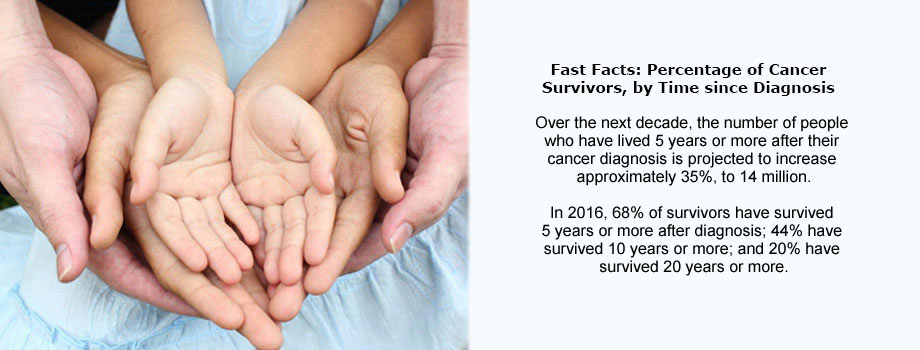
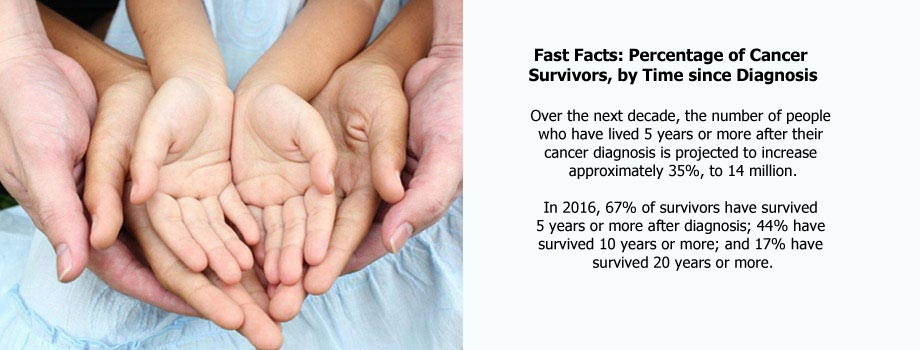
CD: OCS graphs and statistics updates Former-commit-id: cb2cf32f1c4fe3f7e2e1e0c310c98e7bfff11864

diff --git a/ocs/statistics/graphs.html b/ocs/statistics/graphs.html
@@ -29,7 +29,7 @@
 
     <!-- Fav and touch icons -->
   <style type="text/css" id="holderjs-style">.holderjs-fluid {font-size:16px;font-weight:bold;text-align:center;font-family:sans-serif;margin:0}</style>
-  <!-- InstanceBeginEditable name="head" -->
+  <!-- InstanceBeginEditable name="head" -->  <link href="/css/bootstrap-lightbox.min.css" rel="stylesheet">
   <!-- InstanceEndEditable -->
   </head>
 
@@ -164,6 +164,7 @@ Opportunities at NCI</a></li>
                   <h1>Survivorship-Related Graphs</h1>
                   <p>This page provides several cancer survivorship-related graphs.  For additional statistics, including customized graphs or tables, please go to <a href="http://seer.cancer.gov/">NCI’s Surveillance, Epidemiology, and End Results (SEER) Program</a>.
 </p>
+
 				<div class="row-fluid">
                 <div class="span12 listimage">
                  	<div class="row-fluid">
@@ -173,53 +174,58 @@ Opportunities at NCI</a></li>
                       <div class="span12">
                         <ul>
                         	<li>
-                         		<a href="#modal" data-toggle="modal">Estimated and Projected Number of Cancer Survivors in the United States From 1973 to 2024</a> (<a href="../Images/graphs/graphic-2014-prevalence.png" target="_blank" download>Download Graph</a>)
-                     			<div id="modal" class="modal hide fade" tabindex="-1" role="dialog" aria-hidden="true">
-                      				<div class="modal-body">
-                      					<img src="../Images/graphs/graphic-2014-prevalence.png" alt="Estimated Number of Cancer Survivors in US" />
-                       				</div>
+                         		<a href="#lightbox" data-toggle="lightbox">Estimated and Projected Number of Cancer Survivors in the U.S. From 1975 to 2040</a> (<a href="../images/graphs/projected-number.jpg" target="_blank" download>Download Graph</a>)
+                     			<div id="lightbox" class="lightbox hide fade" tabindex="-1" role="dialog" aria-hidden="true">
+                      				<div class='lightbox-content'>
+                      					<img src="../images/graphs/projected-number.jpg" alt="Estimated Number of Cancer Survivors in US" />
+     <div class="lightbox-caption"><p>Bluethmann SM, Mariotto AB, Rowland, JH. Anticipating the ''Silver Tsunami'': Prevalence Trajectories and Comorbidity Burden among Older Cancer Survivors in the United States. Cancer Epidemiol Biomarkers Prev. 2016;25:1029-1036. </p></div>                  				</div>
                         		</div>
                          	</li>
-                         <li><a href="#modal2" data-toggle="modal">Estimated Number of Cancer Survivors in the United States by Years Since Diagnosis</a> (<a href="../Images/graphs/graph-2014-years-since.png" target="_blank" download>Download Graph</a>)
-                     			<div id="modal2" class="modal hide fade" tabindex="-1" role="dialog" aria-hidden="true">
-                      				<div class="modal-body">
-                      					<img src="../Images/graphs/graph-2014-years-since.png" alt="Estimated Number of US Cancer Survivors by Sex and Years Since Diagnosis, as of January 1, 2014" />
-                       				</div>
+                         <li><a href="#lightbox2" data-toggle="lightbox">Estimated Number of Cancer Survivors in the U.S., by Years Since Diagnosis</a> (<a href="../images/graphs/graph-years-since.png" target="_blank" download>Download Graph</a>)
+                     			<div id="lightbox2" class="lightbox hide fade" tabindex="-1" role="dialog" aria-hidden="true">
+                      				<div class='lightbox-content'>
+                      					<img src="../images/graphs/graph-years-since.png" alt="Estimated Number of US Cancer Survivors by Sex and Years Since Diagnosis, as of January 1, 2014" />
+         <div class="lightbox-caption"><p>American Cancer  Society<em>. Cancer Treatment &amp; Survivorship Facts &amp; Figures 2016-2017</em>.  Atlanta: American Cancer Society; 2016.<br />
+  Miller, K. D.,  Siegel, R. L., Lin, C. C., Mariotto, A. B., Kramer, J. L., Rowland, J. H.,  Stein, K. D., Alteri, R. and Jemal, A. (2016), Cancer treatment and  survivorship statistics, 2016. CA: A Cancer Journal for Clinicians.</p> </div>             				</div>
                         		</div>
                          </li>
-                         <li><a href="#modal3" data-toggle="modal">Estimated Number of Persons Alive in the U.S. Who Were Diagnosed With Cancer, by Current Age</a> (<a href="../Images/graphs/graph-2014-age.png" target="_blank" download>Download Graph</a>)
-                     			<div id="modal3" class="modal hide fade" tabindex="-1" role="dialog" aria-hidden="true">
-                      				<div class="modal-body">
-                      					<img src="../Images/graphs/graph-2014-age.png" alt="Estimated Number of Persons Alive in the US Who were Diagnosed with Cancer, by current age." />
-                       				</div>
+                         <li><a href="#lightbox3" data-toggle="lightbox">Estimated Number of Cancer Survivors in the U.S., by Current Age</a> (<a href="../images/graphs/graph-age.png" target="_blank" download>Download Graph</a>)
+                     			<div id="lightbox3" class="lightbox hide fade" tabindex="-1" role="dialog" aria-hidden="true">
+                      				<div class='lightbox-content'>
+                      					<img src="../images/graphs/graph-age.png" alt="Estimated Number of Persons Alive in the US Who were Diagnosed with Cancer, by current age." />
+    <div class="lightbox-caption"><p>American Cancer  Society<em>. Cancer Treatment &amp; Survivorship Facts &amp; Figures 2016-2017</em>.  Atlanta: American Cancer Society; 2016.<br />
+  Miller, K. D.,  Siegel, R. L., Lin, C. C., Mariotto, A. B., Kramer, J. L., Rowland, J. H.,  Stein, K. D., Alteri, R. and Jemal, A. (2016), Cancer treatment and  survivorship statistics, 2016. CA: A Cancer Journal for Clinicians.</p> </div>             				</div>               		                       		</div>
+                         </li>
+                         <li><a href="#lightbox4" data-toggle="lightbox">Estimated Number of Cancer Survivors in the U.S., by Current Age – More Detail</a> (<a href="../images/graphs/graph-age-detail.png" target="_blank" download>Download Graph</a>)
+                     			<div id="lightbox4" class="lightbox hide fade" tabindex="-1" role="dialog" aria-hidden="true">
+                      				<div class='lightbox-content'>
+                      					<img src="../images/graphs/graph-age-detail.png" alt="Estimated number of Persons Alive in the US who were diagonsed with cancer, by age." />
+     <div class="lightbox-caption"><p>American Cancer  Society<em>. Cancer Treatment &amp; Survivorship Facts &amp; Figures 2016-2017</em>.  Atlanta: American Cancer Society; 2016.<br />
+  Miller, K. D.,  Siegel, R. L., Lin, C. C., Mariotto, A. B., Kramer, J. L., Rowland, J. H.,  Stein, K. D., Alteri, R. and Jemal, A. (2016), Cancer treatment and  survivorship statistics, 2016. CA: A Cancer Journal for Clinicians.</p> </div>                  				</div>
                         		</div>
                          </li>
-                         <li><a href="#modal4" data-toggle="modal">Estimated Number of Persons Alive in the U.S. Who Were Diagnosed With Cancer, by Current Age – More Detail</a> (<a href="../Images/graphs/graph-2014-age-detail.png" target="_blank" download>Download Graph</a>)
-                     			<div id="modal4" class="modal hide fade" tabindex="-1" role="dialog" aria-hidden="true">
-                      				<div class="modal-body">
-                      					<img src="../Images/graphs/graph-2014-age-detail.png" alt="Estimated number of Persons Alive in the US who were diagonsed with cancer, by age." />
-                       				</div>
+                         <li><a href="#lightbox5" data-toggle="lightbox">Estimated Number of Cancer Survivors in the U.S., by Site</a> (<a href="../images/graphs/graph-site.png" target="_blank" download>Download Graph</a>)
+                     			<div id="lightbox5" class="lightbox hide fade" tabindex="-1" role="dialog" aria-hidden="true">
+                      				<div class='lightbox-content'>
+                      					<img src="../images/graphs/graph-site.png" alt="Estimated Number of Persons Alive in the U.S. Who Were Diagnosed With Cancer, by Site" />
+    <div class="lightbox-caption"><p>American Cancer  Society<em>. Cancer Treatment &amp; Survivorship Facts &amp; Figures 2016-2017</em>.  Atlanta: American Cancer Society; 2016.<br />
+  Miller, K. D.,  Siegel, R. L., Lin, C. C., Mariotto, A. B., Kramer, J. L., Rowland, J. H.,  Stein, K. D., Alteri, R. and Jemal, A. (2016), Cancer treatment and  survivorship statistics, 2016. CA: A Cancer Journal for Clinicians.</p> </div>                    				</div>
                         		</div>
                          </li>
-                         <li><a href="#modal5" data-toggle="modal">Estimated Number of Persons Alive in the U.S. Who Were Diagnosed With Cancer, by Site</a> (<a href="../Images/graphs/graph-2014-site.png" target="_blank" download>Download Graph</a>)
-                     			<div id="modal5" class="modal hide fade" tabindex="-1" role="dialog" aria-hidden="true">
-                      				<div class="modal-body">
-                      					<img src="../Images/graphs/graph-2014-site.png" alt="Estimated Number of Persons Alive in the U.S. Who Were Diagnosed With Cancer, by Site" />
-                       				</div>
-                        		</div>
-                         </li>
-                         <li><a href="#modal6" data-toggle="modal">Estimated Number of Male Cancer Survivors in the U.S. by Site</a> (<a href="../Images/graphs/graph-2014-site-male.png" target="_blank" download>Download Graph</a>)
-                     			<div id="modal6" class="modal hide fade" tabindex="-1" role="dialog" aria-hidden="true">
-                      				<div class="modal-body">
-                      					<img src="../Images/graphs/graph-2014-site-male.png" alt="Estimated Number of Male Cancer Survivors in the U.S. by Site" />
-                       				</div>
+                         <li><a href="#lightbox6" data-toggle="lightbox">Estimated Number of Male Cancer Survivors in the U.S., by Site</a> (<a href="../images/graphs/graph-site-male.png" target="_blank" download>Download Graph</a>)
+                     			<div id="lightbox6" class="lightbox hide fade" tabindex="-1" role="dialog" aria-hidden="true">
+                      				<div class='lightbox-content'>
+                      					<img src="../images/graphs/graph-site-male.png" alt="Estimated Number of Male Cancer Survivors in the U.S. by Site" />
+       <div class="lightbox-caption"><p>American Cancer  Society<em>. Cancer Treatment &amp; Survivorship Facts &amp; Figures 2016-2017</em>.  Atlanta: American Cancer Society; 2016.<br />
+  Miller, K. D.,  Siegel, R. L., Lin, C. C., Mariotto, A. B., Kramer, J. L., Rowland, J. H.,  Stein, K. D., Alteri, R. and Jemal, A. (2016), Cancer treatment and  survivorship statistics, 2016. CA: A Cancer Journal for Clinicians.</p> </div>                				</div>
                         		</div>
 						</li>
-                         <li><a href="#modal7" data-toggle="modal">Estimated Number of Female Cancer Survivors in the U.S. by Site</a> (<a href="../Images/graphs/graph-2014-site-female.png" target="_blank" download>Download Graph</a>)
-                     			<div id="modal7" class="modal hide fade" tabindex="-1" role="dialog" aria-hidden="true">
-                      				<div class="modal-body">
-                      					<img src="../Images/graphs/graph-2014-site-female.png" alt="Estimated Number of Female Cancer Survivors in the U.S. by Site" />
-                       				</div>
+                         <li><a href="#lightbox7" data-toggle="lightbox">Estimated Number of Female Cancer Survivors in the U.S., by Site</a> (<a href="../images/graphs/graph-site-female.png" target="_blank" download>Download Graph</a>)
+                     			<div id="lightbox7" class="lightbox hide fade" tabindex="-1" role="dialog" aria-hidden="true">
+                      				<div class='lightbox-content'>
+                      					<img src="../images/graphs/graph-site-female.png" alt="Estimated Number of Female Cancer Survivors in the U.S. by Site" />
+         <div class="lightbox-caption"><p>American Cancer  Society<em>. Cancer Treatment &amp; Survivorship Facts &amp; Figures 2016-2017</em>.  Atlanta: American Cancer Society; 2016.<br />
+  Miller, K. D.,  Siegel, R. L., Lin, C. C., Mariotto, A. B., Kramer, J. L., Rowland, J. H.,  Stein, K. D., Alteri, R. and Jemal, A. (2016), Cancer treatment and  survivorship statistics, 2016. CA: A Cancer Journal for Clinicians.</p> </div>              				</div>
                         		</div>
 						</li>
                         </ul>
@@ -286,7 +292,7 @@ Opportunities at NCI</a></p>
           </div>
            </div>
        <div class="last-updated">
-       <p class="center"><strong>Last Updated: <!-- InstanceBeginEditable name="Last Updated" -->May 30, 2014<!-- InstanceEndEditable --></strong></p>
+       <p class="center"><strong>Last Updated: <!-- InstanceBeginEditable name="Last Updated" -->October 19, 2016<!-- InstanceEndEditable --></strong></p>
        <a href="https://www.cancer.gov/contact" class="help-image"><img class="footer-help" src="/images/footer-help-logo.png" alt="help-logo" /></a><p class="can-numb"><strong>1-800-4-CANCER <br /> (1-800-422-6237)</strong></p>
        </div>
        </div><!--/row-->
@@ -373,6 +379,7 @@ $(document).ready(function(){
 </script>
     <script src="../../js/respond.min.js"></script>
 <script type="text/javascript" src="/JS/Omniture/WA_DCCPS_PageLoad.js"></script>
-    <!-- InstanceBeginEditable name="Scripts" --><!-- InstanceEndEditable -->
+    <!-- InstanceBeginEditable name="Scripts" -->
+	<script src="/js/bootstrap.lightbox.min.js"></script><!-- InstanceEndEditable -->
   </body>
 <!-- InstanceEnd --></html>

diff --git a/ocs/statistics/statistics.html b/ocs/statistics/statistics.html
@@ -165,7 +165,7 @@ Opportunities at NCI</a></li>
                   <h1>Statistics</h1>
                   <p><strong>Number of Cancer Survivors    </strong></p>
     <ul>
-      <li>As of January 2016, it is estimated that there are 15.5 million cancer survivors in the United States. This represents 4.8% of the population.<sup>1, 2</sup>  <!--<a href="#graphA" data-toggle="lightbox">View graph A</a>
+      <li>As of January 2016, it is estimated that there are 15.5 million cancer survivors in the United States. This represents 4.8% of the population.<sup>1</sup>  <!--<a href="#graphA" data-toggle="lightbox">View graph A</a>
                      			<div id="graphA" class="lightbox hide fade" tabindex="-1" role="dialog" aria-hidden="true">
      <div class='lightbox-header'><button type="button" class="close" data-dismiss="lightbox" aria-hidden="true">&times;</button>
 </div>
@@ -175,8 +175,8 @@ Opportunities at NCI</a></li>
     </div>
     </div>-->
 		</li>
-      <li>The number of cancer survivors is projected to increase by 31%, to almost 20 million, by 2026, which represents an increase of more than 4 million survivors in 10 years.<sup>1, 2</sup> </li>
-      <li>The number of cancer survivors is projected to grow to 26.1 million by 2040, an increase of almost 11 million from 2016.<sup>3</sup></li>
+      <li>The number of cancer survivors is projected to increase by 31%, to  20.3 million, by 2026, which represents an increase of more than 4 million survivors in 10 years.<sup>1</sup> </li>
+      <li>The number of cancer survivors is projected to grow to 26.1 million by 2040, an increase of almost 11 million from 2016.<sup>1</sup></li>
       <!--<a href="#graphA" data-toggle="lightbox">View graph A</a>
                      			<div id="modal" class="lightbox hide fade" tabindex="-1" role="dialog" aria-hidden="true">
                       				<div class="modal-body">
@@ -186,7 +186,7 @@ Opportunities at NCI</a></li>
     </ul>
     <p><strong>Number or Percentage of Cancer Survivors, by Time Since Diagnosis    </strong></p>
     <ul>
-      <li>Over the next decade, the number of people who have lived 5 years or more after their cancer diagnosis is projected to increase approximately 35%, to 14 million.<sup>1, 2</sup> <!--<a href="#graphB" data-toggle="lightbox">View graph B</a>
+      <li>Over the next decade, the number of people who have lived 5 years or more after their cancer diagnosis is projected to increase approximately 35%, to 14 million.<sup>1</sup> <!--<a href="#graphB" data-toggle="lightbox">View graph B</a>
                      			<div id="graphB" class="lightbox hide fade" tabindex="-1" role="dialog" aria-hidden="true">
      <div class='lightbox-header'><button type="button" class="close" data-dismiss="lightbox" aria-hidden="true">&times;</button>
 </div>
@@ -196,7 +196,7 @@ Opportunities at NCI</a></li>
     </div>
     </div>-->
 		</li>
-      <li>In 2016, 68% of survivors have survived 5 years or more after diagnosis; 44% have survived 10 years or more; and 20% have survived 20 years or more.<sup>1, 2</sup>  <!--<a href="#graphC" data-toggle="lightbox">View graph C</a>
+      <li>In 2016, 67% of survivors have survived 5 years or more after diagnosis; 44% have survived 10 years or more; and 17% have survived 20 years or more.<sup>1</sup>  <!--<a href="#graphC" data-toggle="lightbox">View graph C</a>
                      			<div id="graphC" class="lightbox hide fade" tabindex="-1" role="dialog" aria-hidden="true">
      <div class='lightbox-header'><button type="button" class="close" data-dismiss="lightbox" aria-hidden="true">&times;</button>
 </div>
@@ -208,8 +208,8 @@ Opportunities at NCI</a></li>
     </ul>
 <p><strong>More Details about Cancer Survivors    </strong></p>
     <ul>
-      <li>Sixty-one percent of survivors are currently 65 years of age or older.</li>
-      <li>It is estimated that by 2040, 73% of cancer survivors in the United States will be 65 years or older.<sup>3</sup>  <!--<a href="#graphD" data-toggle="lightbox">View graph D</a>
+      <li>Sixty-two percent of survivors are currently 65 years of age or older.<sup>1</sup></li>
+      <li>It is estimated that by 2040, 73% of cancer survivors in the United States will be 65 years or older.<sup>1</sup>  <!--<a href="#graphD" data-toggle="lightbox">View graph D</a>
       
         <div id="graphD" class="lightbox hide fade" tabindex="-1" role="dialog" aria-hidden="true">
      <div class='lightbox-header'><button type="button" class="close" data-dismiss="lightbox" aria-hidden="true">&times;</button>
@@ -218,13 +218,15 @@ Opportunities at NCI</a></li>
     <img src="../Images/graphs/graph-2014-age.png" alt="Estimated number of persons alive in the United States who were diagnosed with cancer, by current age" />
     </div>
     </div>-->  </li>    
-      <li>Among today's survivors, the most common cancer sites represented include female breast (23%), prostate (21%), colorectal (9%),  gynecologic (8%) and melanoma (8%).<sup>1, 2</sup></li>
+      <li>Among today's survivors, the most common cancer sites represented include female breast (23%, 3.6 million), prostate (21%, 3.3 million), colorectal (9%, 1.5 million), gynecologic (8%, 1.3 million) and melanoma (8%, 1.2 million).* <sup>2, 3</sup></li>
     </ul>
-    <p>For additional cancer-related statistics, please visit <a href="http://seer.cancer.gov/">NCI's Surveillance, Epidemiology, and End Results (SEER) Program</a>. </p>
     <p>&nbsp;</p>
-    <p><sup>1</sup> American Cancer Society<em>. Cancer Treatment &amp; Survivorship Facts &amp; Figures  2016-2017</em>. Atlanta: American Cancer Society; 2016.</p>
-    <p><sup>2</sup> Miller,  K. D., Siegel, R. L., Lin, C. C., Mariotto, A. B., Kramer, J. L., Rowland, J.  H., Stein, K. D., Alteri, R. and Jemal, A. (2016), Cancer treatment and  survivorship statistics, 2016. CA: A Cancer Journal for Clinicians.</p>
-    <p><sup>3</sup> Bluethmann SM,  Mariotto AB, Rowland, JH. Anticipating the ''Silver Tsunami'': Prevalence  Trajectories and Comorbidity Burden among Older Cancer Survivors in the United  States. Cancer Epidemiol Biomarkers Prev. 2016;25:1029-1036. </p>
+    <p>For additional cancer-related statistics, please visit <a href="http://seer.cancer.gov/">NCI's Surveillance, Epidemiology, and End Results (SEER) Program</a>.</p>
+    <p>* Note: People may be represented more than once in these percentages if they have been diagnosed with more than one cancer.  For example, a man who has survived both colorectal cancer and prostate cancer will be included as both a colorectal cancer survivor and as a prostate cancer survivor. Therefore, the sum of the percentages may be more than 100%.</p>
+    <p>&nbsp;</p>
+    <p><sup>1</sup> Bluethmann  SM, Mariotto AB, Rowland, JH. Anticipating the ''Silver Tsunami'': Prevalence  Trajectories and Comorbidity Burden among Older Cancer Survivors in the United  States. Cancer Epidemiol Biomarkers Prev. 2016;25:1029-1036.</p>
+    <p><sup>2</sup> American Cancer Society. Cancer Treatment &amp; Survivorship Facts &amp; Figures 2016-2017. Atlanta: American Cancer Society; 2016.</p>
+    <p><sup>3</sup> Miller, K. D., Siegel, R. L., Lin, C. C., Mariotto, A. B., Kramer, J. L., Rowland, J. H., Stein, K. D., Alteri, R. and Jemal, A. (2016), Cancer treatment and survivorship statistics, 2016. CA: A Cancer Journal for Clinicians. </p>
 </div>
                 <!--/span-->
                           <!-- InstanceEndEditable -->
@@ -282,7 +284,7 @@ Opportunities at NCI</a></p>
           </div>
            </div>
        <div class="last-updated">
-       <p class="center"><strong>Last Updated: <!-- InstanceBeginEditable name="Last Updated" -->July 7, 2016<!-- InstanceEndEditable --></strong></p>
+       <p class="center"><strong>Last Updated: <!-- InstanceBeginEditable name="Last Updated" -->October 17, 2016<!-- InstanceEndEditable --></strong></p>
        <a href="https://www.cancer.gov/contact" class="help-image"><img class="footer-help" src="/images/footer-help-logo.png" alt="help-logo" /></a><p class="can-numb"><strong>1-800-4-CANCER <br /> (1-800-422-6237)</strong></p>
        </div>
        </div><!--/row-->

diff --git a/ocs/index.html b/ocs/index.html
@@ -178,7 +178,11 @@ Opportunities at NCI</a></li>
           </div>
         </div>
         <div class="item">
-          <img class="splash" src="Images/carousel/banner-fastfacts2.jpg" alt="As of January 2016, it is estimated that there are 15.5 million cancer survivors in the United States. This represents 4.8% of the population. The number of cancer survivors is projected to grow to 26.1 million by 2040, an increase of almost 11 million from 2016.">
+          <img class="splash" src="Images/carousel/banner-fastfacts2.jpg" alt="As of January 2016, it is estimated that there 
+are 15.5 million cancer survivors in the United 
+States. This represents 4.8% of the population. The number of cancer survivors in the United 
+States is projected to increase to more than 20 million by 2026 to more than 26 million by 
+2040.">
           <div class="container">
             <div class="carousel-caption slide2">
                   <a class="btn btn-info slide2a" href="/ocs/statistics/statistics.html">Learn More</a>
@@ -186,8 +190,11 @@ Opportunities at NCI</a></li>
           </div>
         </div>
         <div class="item">
-          <img class="splash" src="Images/carousel/banner-fastfacts1.jpg" alt="Over the next decade, the number of people who have lived 5 years or more after their cancer diagnosis is projected to increase approximately 35%, to 14 million. In 2016, 68% of survivors have survived 
-5 years or more after diagnosis; 44% have survived 10 years or more; and 20% have survived 20 years or more.">
+          <img class="splash" src="Images/carousel/banner-fastfacts1.jpg" alt="Over the next decade, the number of people 
+who have lived 5 years or more after their 
+cancer diagnosis is projected to increase 
+approximately 35%, to 14 million. In 2016, 67% of survivors have survived 5 years or more after diagnosis; 44% have survived 10 years or more; and 17% have 
+survived 20 years or more.">
           <div class="container">
             <div class="carousel-caption slide3">
                   <a class="btn btn-info slide3a" href="/ocs/statistics/statistics.html">Learn More</a>
@@ -195,7 +202,7 @@ Opportunities at NCI</a></li>
           </div>
         </div>
                 <div class="item">
-          <img class="splash" src="Images/carousel/banner-fastfacts3.jpg" alt="Sixty-one percent of survivors are currently 65 years of age or older. It is estimated that by 2040, 73% of cancer survivors in the United States will be 65 years or older. Among today's survivors, the most common cancer sites represented include female breast (23%), prostate (21%), colorectal (9%), gynecologic (8%) and melanoma (8%).">
+          <img class="splash" src="Images/carousel/banner-fastfacts3.jpg" alt="Sixty-two percent of survivors are currently 65 years of age or older. It is estimated that by 2040, 73% of cancer survivors in the United States will be 65 years or older. Among today's survivors, the most common cancer sites represented include female breast (23%), prostate (21%), colorectal (9%), gynecologic (8%) and melanoma (8%).">
           <div class="container">
             <div class="carousel-caption slide4">
                   <a class="btn btn-info slide4a" href="/ocs/statistics/statistics.html">Learn More</a>
@@ -248,6 +255,8 @@ Opportunities at NCI</a></li>
     <div class="span3">
     	<div class="publications">
        	  <h2>News and Highlights</h2>
+           <p class="bb"><a class="document" href="https://www.cancer.gov/news-events/cancer-currents-blog/2016/caregivers-needs-challenges"><strong>NEW</strong> – Cancer  Currents Blog: Many Cancer Caregivers Report Feeling Unprepared for Caregiving  Challenges</a></p>
+           <p class="bb"><a class="document" href="https://www.youtube.com/watch?cid=eb_govdel&v=TR5dNbhmiAc"><strong>NEW VIDEO</strong> – The  Psychosocial Impacts of Pediatric and Adolescent Cancers</a> <a href="/exit_disclaimer.html"><img src="/images/Icon_External_Link.png" width="12" height="12" alt="exit disclaimer" /></a></p>
           <p class="bb"><a class="document" href="https://www.cancer.gov/news-events/cancer-currents-blog/2016/childhood-survivor-study"><strong>NEW</strong> - Cancer Currents Blog:  The Impact and Future of the Childhood Cancer Survivor Study, An Interview with Greg Armstrong, M.D.</a></p>
           <p class="bb"><a class="document" href="http://cebp.aacrjournals.org/content/25/7/1029"><strong>NEW</strong> – <em>Just Published</em>: Anticipating the “Silver Tsunami”: Prevalence Trajectories and Comorbidity Burden among Older Cancer Survivors in the United States</a> <a href="/exit_disclaimer.html"><img src="/images/Icon_External_Link.png" width="12" height="12" alt="exit disclaimer" /></a><br>
 <br>
@@ -255,8 +264,6 @@ Opportunities at NCI</a></li>
           <p class="bb"><a class="document" href="http://onlinelibrary.wiley.com/doi/10.3322/caac.21349/abstract"><strong>NEW</strong> - New  Report: Number of US Cancer Survivors Expected to Exceed 20 Million by 2026</a> <a href="/exit_disclaimer.html"><img src="/images/Icon_External_Link.png" width="12" height="12" alt="exit disclaimer" /></a></p>
           <p class="bb"><a class="document" href="/funding_apply.html#hdr"><strong>NEW</strong> - Funding Opportunity: Intervening with Cancer Caregivers to Improve Patient Health Outcomes and Optimize Health Care Utilization (R01 and R21)</a></a></p>
           <p class="bb"><a class="document" href="http://www.ncbi.nlm.nih.gov/pubmed/26991807"><strong>NEW</strong> - <em>Just published</em>:  Caring for caregivers and patients: Research and clinical priorities for informal cancer caregiving</a></p>
-          <p class="bb"><a class="document" href="http://onlinelibrary.wiley.com/doi/10.1111/jgs.13888/full">Revisiting the  SEER-MHOS Linked Data Resource for Patient-Reported Outcomes Research in Older  Adults with Cancer</a> <a href="/exit_disclaimer.html"><img src="/images/Icon_External_Link.png" width="12" height="12" alt="exit disclaimer" /></a></p>
-          
           <p class="bb"><strong><a class="document" href="/ocs/about/staff.html">Cancer Survivorship Research Expertise: <em>Want to know whom to contact about your survivorship topic? Click here</em></a></strong></p>
           <p><a href="resources/news.html">News and Highlights Archive</a></p>
         </div>
@@ -322,7 +329,7 @@ Opportunities at NCI</a></p>
           </div>
            </div>
        <div class="last-updated">
-       <p class="center"><strong>Last Updated: July 13, 2016</strong></p>
+       <p class="center"><strong>Last Updated: October 11, 2016</strong></p>
        <a href="https://www.cancer.gov/contact" class="help-image"><img class="footer-help" src="/images/footer-help-logo.png" alt="help-logo" /></a><p class="can-numb"><strong>1-800-4-CANCER <br /> (1-800-422-6237)</strong></p>
        </div>
        </div><!--/row-->
@@ -373,7 +380,7 @@ $('#pauseButton').click(function () {
     $('#myCarousel').carousel('pause');
 });
           $('#myCarousel').carousel({
-			  interval: 8000
+			  interval: 12000
 		  })
     </script>
     <script>

diff --git a/ocs/css/ocs-style.css b/ocs/css/ocs-style.css
@@ -109,6 +109,10 @@
 	list-style-image: url(../../images/tiny-arrow-ocs.png);
 }
 
+.lightbox-content .lightbox-caption {
+    margin-bottom: 9px;
+}
+
 @media (min-width: 767px) {
 	#header-search {
     	top: -110px;
